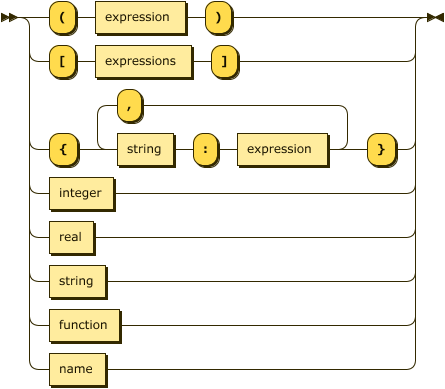
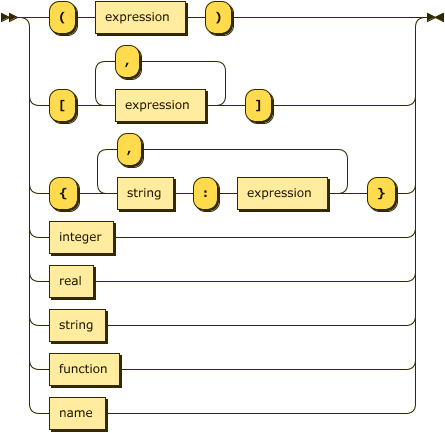
Improved language definition

diff --git a/docs/language.html b/docs/language.html
@@ -90,7 +90,6 @@
             <li><a class="page-scroll" href="#module">module</a></li>
             <li><a class="page-scroll" href="#statement">statement</a></li>
             <li><a class="page-scroll" href="#block">block</a></li>
-            <li><a class="page-scroll" href="#expressions">expressions</a></li>
             <li><a class="page-scroll" href="#expression">expression</a></li>
             <li><a class="page-scroll" href="#conditional">conditional</a></li>
             <li><a class="page-scroll" href="#or">or</a></li>
@@ -164,12 +163,6 @@
             <h1 class="pb-2">block</h1>
             <p><img src="img/block.png" alt="Railroad Diagram" /></p>
             <pre><code>block ::= &quot;{&quot; statement* &quot;}&quot;
-</code></pre>
-          </div>
-          <div id="expressions">
-            <h1 class="pb-2">expressions</h1>
-            <p><img src="img/expressions.png" alt="Railroad Diagram" /></p>
-            <pre><code>expressions ::= expression (&quot;,&quot; expression)*
 </code></pre>
           </div>
           <div id="expression">
@@ -262,14 +255,14 @@
           <div id="postfix">
             <h1 class="pb-2">postfix</h1>
             <p><img src="img/postfix.png" alt="Railroad Diagram" /></p>
-            <pre><code>postfix ::= primary (&quot;[&quot; expression &quot;]&quot; | &quot;(&quot; expressions &quot;)&quot; | &quot;.&quot; name | &quot;++&quot; | &quot;--&quot;)*
+            <pre><code>postfix ::= primary (&quot;[&quot; expression &quot;]&quot; | &quot;(&quot; expression (&quot;,&quot; expression)* &quot;)&quot; | &quot;.&quot; name | &quot;++&quot; | &quot;--&quot;)*
 </code></pre>
           </div>
           <div id="primary">
             <h1 class="pb-2">primary</h1>
             <p><img src="img/primary.png" alt="Railroad Diagram" /></p>
             <pre><code>primary ::= &quot;(&quot; expression &quot;)&quot;
-| &quot;[&quot; expressions &quot;]&quot;
+| &quot;[&quot; expression (&quot;,&quot; expression)* &quot;]&quot;
 | &quot;{&quot; string &quot;:&quot; expression (&quot;,&quot; string &quot;:&quot; expression)* &quot;}&quot;
 | integer
 | real

diff --git a/docs-src/language/primary.md b/docs-src/language/primary.md
@@ -1,10 +1,10 @@
 ![Railroad Diagram](img/primary.png)
 
-    primary ::= "(" expression ")"
-    | "[" expressions "]"
-    | "{" string ":" expression ("," string ":" expression)* "}"
-    | integer
-    | real
-    | string
-    | function
-    | name
+	primary ::= "(" expression ")"
+	| "[" expression ("," expression)* "]"
+	| "{" string ":" expression ("," string ":" expression)* "}"
+	| integer
+	| real
+	| string
+	| function
+	| name

diff --git a/docs-src/language/postfix.md b/docs-src/language/postfix.md
@@ -1,3 +1,3 @@
 ![Railroad Diagram](img/postfix.png)
 
-    postfix ::= primary ("[" expression "]" | "(" expressions ")" | "." name | "++" | "--")*
+	postfix ::= primary ("[" expression "]" | "(" expression ("," expression)* ")" | "." name | "++" | "--")*

diff --git a/docs-src/language/toc.md b/docs-src/language/toc.md
@@ -3,7 +3,6 @@
 * [module](#module)
 * [statement](#statement)
 * [block](#block)
-* [expressions](#expressions)
 * [expression](#expression)
 * [conditional](#conditional)
 * [or](#or)
